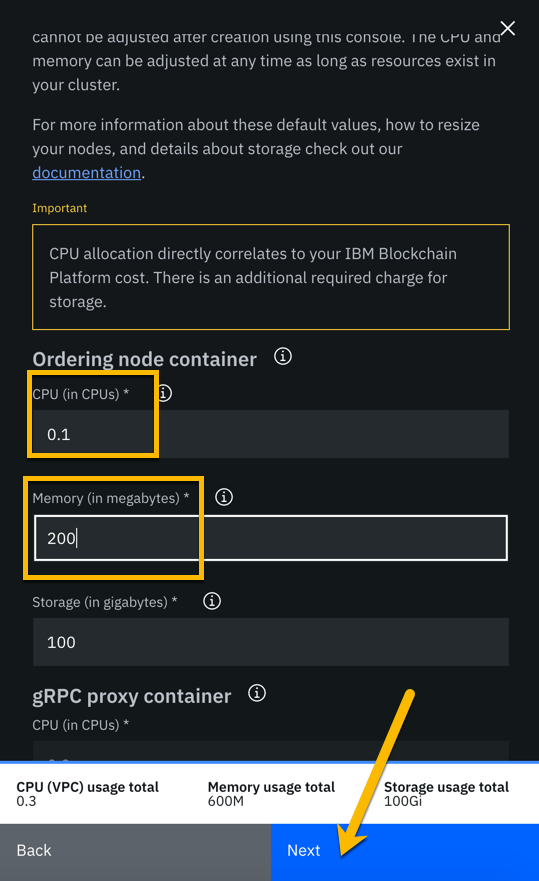
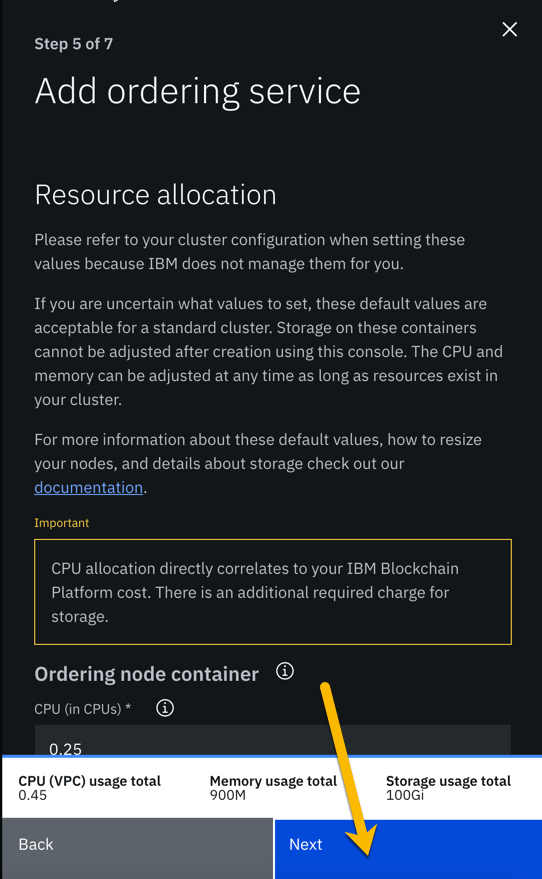
go back to default resource allocations

Changed region(s): [[0.0, 0.0307, 1.0, 1.0], [0.5046, 0.7372, 0.5343, 0.7679]]

diff --git a/docs/ibpconsole.md b/docs/ibpconsole.md
@@ -106,21 +106,18 @@ In relation to the diagram in the overview section that showed our finished netw
 
 ![image](images/ibpconsole/0060_AddCertificateAuthority.png)
 
-**Step 3.3:** Type in **Team*xx* Org1 CA** where *xx* is your two-digit team id, and then click the blue **Next** button:
+**Step 3.3:** Type **Team*xx* Org1 CA** where *xx* is your two-digit team id, and then click the blue **Next** button:
 
 ![image](images/ibpconsole/0070_AddCertificateAuthoritySideBar2.png)
 
-**Step 3.4:** Type in **admin** for the *CA administrator enroll id* and **adminpw** for the *CA administrator enroll secret* and then click the blue **Next** button:
+**Step 3.4:** Type **admin** for the *CA administrator enroll id* and **adminpw** for the *CA administrator enroll secret* and then click the blue **Next** button:
 
 ![image](images/ibpconsole/0080_AddCertificateAuthoritySideBar3.png)
 
-**Step 3.5:** In the *Resource allocation* settings section, change the *Memory* setting from *200* to *100*, and click the **Next** button:
-
-!!! note
-       You may need to scroll down in the *Resource allocation* section to see the *Memory* field.
+**Step 3.5:** Leave the *Resource allocation* settings unchanged, and click the **Next** button:
 
 !!! important
-       It is very important to change the *Resource allocation* settings throughout the lab to the values provided in these instructions, in order to ensure that each team has enough resources.
+       In a production environment with high volumes, you would need to increase the default settings.  Be a good neighbor and keep the defaults throughout this lab, whenever you come to this *Resource allocation* screen as you deploy components.  This will ensure that we have enough resources for all students to do the lab!
 
 ![image](images/ibpconsole/0090_AddCertificateAuthoritySideBar4.png)
 
@@ -143,7 +140,7 @@ is shown in this screenshot).
 If the box does not turn green in a minute, try reloading the page in your browser. Contact an instructor for help if it does not
 turn green and show the running status when you hover your cursor over the button.
 
-Once your certificate authority is running, click on its tile so that you can proceed to the next section where you will add users.
+**Once your certificate authority is running, click on its tile** so that you can proceed to the next section where you will add users.
 
 ![image](images/ibpconsole/0120_Org1CertificateAuthorityRunning.png)
 
@@ -154,7 +151,7 @@ Section 4: Add new users using your Org1 Certificate Authority
 
 ![image](images/ibpconsole/0130_AddUsers.png)
 
-**Step 4.2:** Type in **org1admin** for the *Enroll id*,  **org1adminpw** for the *Enroll secret*, select **client** for the *Type* field, and then click the blue **Next** button:
+**Step 4.2:** Type **org1admin** for the *Enroll id*,  **org1adminpw** for the *Enroll secret*, select **client** for the *Type* field, and then click the blue **Next** button:
 
 ![image](images/ibpconsole/0140_AddUserOrg1Admin1.png)
 
@@ -166,7 +163,7 @@ Section 4: Add new users using your Org1 Certificate Authority
 
 ![image](images/ibpconsole/0160_AfterOrg1AdminAdded.png)
 
-**Step 4.5:** Type in **peer1** for the *Enroll id*,  **peer1pw** for the *Enroll secret*, select **peer** for the *Type* field, and then click the blue **Next** button:
+**Step 4.5:** Type **peer1** for the *Enroll id*,  **peer1pw** for the *Enroll secret*, select **peer** for the *Type* field, and then click the blue **Next** button:
 
 ![image](images/ibpconsole/0170_AddUserPeer1_1.png)
 
@@ -271,12 +268,7 @@ Review the values your entered for correctness and then click the blue **Next** 
 
 ![image](images/ibpconsole/0310_AddOrg1PeerSidebar4.png)
 
-**Step 6.6:** In the *Resource allocation* settings section, make the following changes, and click the **Next** button:
-
-- In the *Peer container* section, change *CPU* to **0.1**
-- In the *Peer container* section, change *Memory* to **800**
-- In the *CouchDB container* section, change *CPU* to **0.1**
-- In the *CouchDB container* section, change *Memory* to **200**
+**Step 6.6:** Leave the *Resource allocation* settings unchanged and click the **Next** button:
 
 ![image](images/ibpconsole/0320_AddOrg1PeerSidebar5.png)
 
@@ -302,9 +294,9 @@ Section 7: Create a certificate authority for an Ordering Service organization
 In this lab you will create three organizations- two organizations will run peer nodes and run smart contracts. One of the organizations will provide the ordering service for the blockchain network.  In the real world each of the three organizations would likely use their own instance of the IBM Blockchain Platform console to create their necessary artifacts.  (You have already done much of this for the first peer organization, **Team*xx* Org1**, in the previous sections of this lab).
 
 !!! note
-       You will carry out activities for all three organizations from your browser for purposes of this lab. This will somewhat simplify the steps you'll need to perform versus the real world scenario where this activity is being carried out separately by each organization. The procedure to perform the tasks in the "real world" case are outlined in the IBM Blockchain Platform documentation- basically, it involves exporting information about your organization into JSON files, and providing this information "out-of-band" to the other organizations. 
+       You will carry out activities for all three organizations from your browser for purposes of this lab. This will somewhat simplify the steps you'll need to perform versus the real-world scenario where this activity is being carried out separately by each organization. The procedure to perform the tasks in the "real world" case are outlined in the IBM Blockchain Platform documentation- basically, it involves exporting information about your organization into JSON files, and providing this information "out-of-band" to the other organizations. 
 
-       In an earlier step you exported your generated certificate and its private key. While it is a JSON file, this is not the file you would ever send to another organization, as it contains your private key which should never be shared with other organizations. The exported JSON files that are used for inter-organizational tasks contain only public information which is safe to share.
+       In an earlier step you exported your generated certificate and its private key. While it is a JSON file, this is not a file you would ever send to another organization, as it contains your private key which should never be shared with other organizations. The exported JSON files that are used for inter-organizational tasks contain only public information which is safe to share.
 
 Our network will look like this at the completion of this section:
 
@@ -321,7 +313,7 @@ Our network will look like this at the completion of this section:
 
 ![image](images/ibpconsole/0380_AddOrderingCASidebar1.png)
 
-**Step 7.3:** Type in **Team*xx* Ordering Service CA** where *xx* is your two-digit team id, and then click the blue **Next** button:
+**Step 7.3:** Type **Team*xx* Ordering Service CA** where *xx* is your two-digit team id, and then click the blue **Next** button:
 
 ![image](images/ibpconsole/0390_AddOrderingCASidebar2.png)
 
@@ -332,7 +324,7 @@ Our network will look like this at the completion of this section:
 
 ![image](images/ibpconsole/0400_AddOrderingCASidebar3.png)
 
-**Step 7.5:** In the *Resource allocation* settings section, change the *Memory* setting from *200* to *100*, and click the **Next** button:
+**Step 7.5:** Leave the *Resource allocation* settings unchanged, and click the **Next** button:
 
 ![image](images/ibpconsole/0410_AddOrderingCASidebar4.png)
 
@@ -349,7 +341,7 @@ If it is gray, and you hover your cursor over it, you may see a message indicati
 If your button does not turn green in a minute, try reloading the page in your browser. Contact an instructor for help if it does not
 turn green and show the running status when you hover your cursor over the button.
 
-Once your Ordering Service certificate authority is running, click on its tile so that you can proceed to the next section where you will add users.
+**Once your Ordering Service certificate authority is running, click on its tile** so that you can proceed to the next section where you will add users.
 
 ![image](images/ibpconsole/0440_AddOrderingCARunning.png)
 
@@ -360,7 +352,7 @@ Section 8: Add new users using your Ordering Service Certificate Authority
 
 ![image](images/ibpconsole/0450_AddUsers.png)
 
-**Step 8.2:** Type in **osadmin** for the *Enroll id*,  **osadminpw** for the *Enroll secret*, select **client** for the *Type* field, and then click the blue **Next** button:
+**Step 8.2:** Type **osadmin** for the *Enroll id*,  **osadminpw** for the *Enroll secret*, select **client** for the *Type* field, and then click the blue **Next** button:
 
 ![image](images/ibpconsole/0460_AddUserOrderingAdmin1.png)
 
@@ -372,7 +364,7 @@ Section 8: Add new users using your Ordering Service Certificate Authority
 
 ![image](images/ibpconsole/0480_AfterOrderingAdminAdded.png)
 
-**Step 8.5:** Type in **os1** for the *Enroll id*,  **os1pw** for the *Enroll secret*, select **peer** for the *Type* field, and then click the blue **Next** button:
+**Step 8.5:** Type **os1** for the *Enroll id*,  **os1pw** for the *Enroll secret*, select **peer** for the *Type* field, and then click the blue **Next** button:
 
 !!! note
        The *peer* value on this panel is used for both peer nodes and ordering service nodes.
@@ -431,7 +423,7 @@ Review the values you have entered per the above list, and then click the blue *
 
 ![image](images/ibpconsole/0570_CreateOrderingMSP.png)
 
-**Step 9.7:** You should now see the definition for your new Ordering Service MSP listed on your screen alongside the MSP your created earlier for your peer organization. Scroll up and click the **Nodes** icon in the icon palette on your left- it is the topmost icon on this palette, and you will be ready to proceed to the next section:
+**Step 9.7:** You should now see the definition for your new Ordering Service MSP listed on your screen alongside the MSP your created earlier for your peer organization. **Scroll up and click the *Nodes* icon** in the icon palette on your left- it is the topmost icon on this palette, and you will be ready to proceed to the next section:
 
 ![image](images/ibpconsole/0580_CreateOrderingMSPFinished.png)
 
@@ -477,7 +469,7 @@ Review the values your entered for correctness and then click the blue **Next** 
 
 ![image](images/ibpconsole/0630_AddOrdererSidebar4.png)
 
-**Step 10.6:** In the *Resource allocation* section, change *CPU* to **0.1** and change *Memory* to **200** and click the **Next** button:
+**Step 10.6:** Leave the *Resource allocation* settings unchanged and click the **Next** button:
 
 ![image](images/ibpconsole/0640_AddOrdererSidebar5.png)
 
@@ -498,7 +490,7 @@ Review the values your entered for correctness and then click the blue **Next** 
 
 **Step 10.10:**  It can take a minute or two on our lab system for the ordering service to come up completely, and you may need to refresh your browser in order to see the box turn green. If your ordering service is still not ready after a couple of minutes and after you have tried refreshing your browser, ask an instructor for help.  The ordering service must be ready, as indicated by a green box in the upper right of its tile, similar to what is shown below, before you can continue.
 
-Once it is ready, click on its tile and continue to the next section of the lab.
+**Once it is ready, click on its tile and continue to the next section of the lab.**
 
 ![image](images/ibpconsole/0680_AddOrdererRunning.png)
 
@@ -598,11 +590,11 @@ We will define the second peer organization now.  The pattern is identical to wh
 
 ![image](images/ibpconsole/0830_AddOrg2CASidebar2.png)
 
-**Step 14.4:** Type in **admin** for the *CA administrator enroll id* and **adminpw** for the *CA administrator enroll secret* and then click the blue **Next** button:
+**Step 14.4:** Type **admin** for the *CA administrator enroll id* and **adminpw** for the *CA administrator enroll secret* and then click the blue **Next** button:
 
 ![image](images/ibpconsole/0840_AddOrg2CASidebar3.png)
 
-**Step 14.5:** In the *Resource allocation* settings section, change the *Memory* setting from *200* to *100*, and click the **Next** button:
+**Step 14.5:** Leave the *Resource allocation* settings unchanged, and click the **Next** button:
 
 ![image](images/ibpconsole/0850_AddOrg2CASidebar4.png)
 
@@ -620,7 +612,7 @@ is shown in this screenshot):
 If the box does not turn green in a minute, try reloading the page in your browser. Contact an instructor for help if it does not
 turn green and show the running status when you hover your cursor over the button.
 
-Once your certificate authority is running, click on its tile so that you can proceed to the next section where you will add users.
+**Once your certificate authority is running, click on its tile** so that you can proceed to the next section where you will add users.
 
 ![image](images/ibpconsole/0880_AddOrg2CARunning.png)
 
@@ -631,7 +623,7 @@ Section 15: Add new users using your Org2 Certificate Authority
 
 ![image](images/ibpconsole/0890_AddOrg2Users.png)
 
-**Step 15.2:** Type in **org2admin** for the *Enroll id*,  **org2adminpw** for the *Enroll secret*, select **client** for the *Type* field, and then click the blue **Next** button:
+**Step 15.2:** Type **org2admin** for the *Enroll id*,  **org2adminpw** for the *Enroll secret*, select **client** for the *Type* field, and then click the blue **Next** button:
 
 ![image](images/ibpconsole/0900_AddUserOrg2Admin1.png)
 
@@ -643,7 +635,7 @@ Section 15: Add new users using your Org2 Certificate Authority
 
 ![image](images/ibpconsole/0920_AfterOrg2AdminAdded.png)
 
-**Step 15.5:** Type in **peer2** for the *Enroll id*,  **peer2pw** for the *Enroll secret*, select **peer** for the *Type* field, and then click the blue **Next** button:
+**Step 15.5:** Type **peer2** for the *Enroll id*,  **peer2pw** for the *Enroll secret*, select **peer** for the *Type* field, and then click the blue **Next** button:
 
 ![image](images/ibpconsole/0930_AddUserPeer2_1.png)
 
@@ -699,7 +691,7 @@ Review the values you have entered per the above list, and then click the blue *
 
 ![image](images/ibpconsole/1010_CreateOrg2MSP.png)
 
-**Step 16.7:** You should now see the definition for your new MSP listed on your screen. Scroll up and click the **Nodes** icon in the icon palette on your left- it is the topmost icon on this palette- and you will be ready to proceed to the next section:
+**Step 16.7:** You should now see the definition for your new MSP listed on your screen. Scroll up and **click the *Nodes* icon in the icon palette** on your left- it is the topmost icon on this palette- and you will be ready to proceed to the next section:
 
 ![image](images/ibpconsole/1020_CreateOrg2MSPFinished.png)
 
@@ -743,12 +735,7 @@ Review the values your entered for correctness and then click the blue **Next** 
 
 ![image](images/ibpconsole/1070_AddOrg2PeerSidebar4.png)
 
-**Step 17.6:** In the *Resource allocation* settings section, make the following changes, and click the **Next** button:
-
-- In the *Peer container* section, change *CPU* to **0.1**
-- In the *Peer container* section, change *Memory* to **800**
-- In the *CouchDB container* section, change *CPU* to **0.1**
-- In the *CouchDB container* section, change *Memory* to **200**
+**Step 17.6:** Leave the *Resource allocation* settings unchanged and click the **Next** button:
 
 ![image](images/ibpconsole/1080_AddOrg2PeerSidebar5.png)
 
@@ -857,7 +844,7 @@ You will now join *Org2's* peer to the channel:
 
 ![image](images/ibpconsole/1270_PeerAddSidebar1.png)
 
-**Step 20.3:** Type in **team*xx*-channel1**, where *xx* is your two-digit team id, in the *Channel* field and click the **Next** button:
+**Step 20.3:** Type **team*xx*-channel1**, where *xx* is your two-digit team id, in the *Channel* field and click the **Next** button:
 
 ![image](images/ibpconsole/1280_PeerAddSidebar2.png)
 
@@ -913,7 +900,7 @@ An anchor peer is a peer whose external endpoint address is published in the cha
 
 ![image](images/ibpconsole/1360_BlockCountUpdated.png)
 
-**Step 21.5:** You should see further confirmation that your block height is 4, and you can see that the last two blocks were added about a second or two apart. We used the console to add both anchor peers with one click, but each anchor peer update is packaged as a separate channel configuration update transaction, each in its own block. Hyperledger Fabric can have many application transactions in a block, but it only allows one configuration update in a block by itself- that is, it cannot be mixed in a block with application transactions.
+**Step 21.5:** You should see further confirmation that your block height is 4, and you can see that the last two blocks were added about a second or two apart. We used the console to add both anchor peers with one click, but each anchor peer update is packaged as a separate channel configuration update transaction, each in its own block. Hyperledger Fabric can have many application transactions in a block, but it only allows one configuration update in a block by itself- that is, not only can it not be mixed in a block with application transactions, it won’t even be in a block with other configuration update transactions.  Each configuration update transaction gets its very own block.
 
 ![image](images/ibpconsole/1370_BlockHeight4.png)
 
